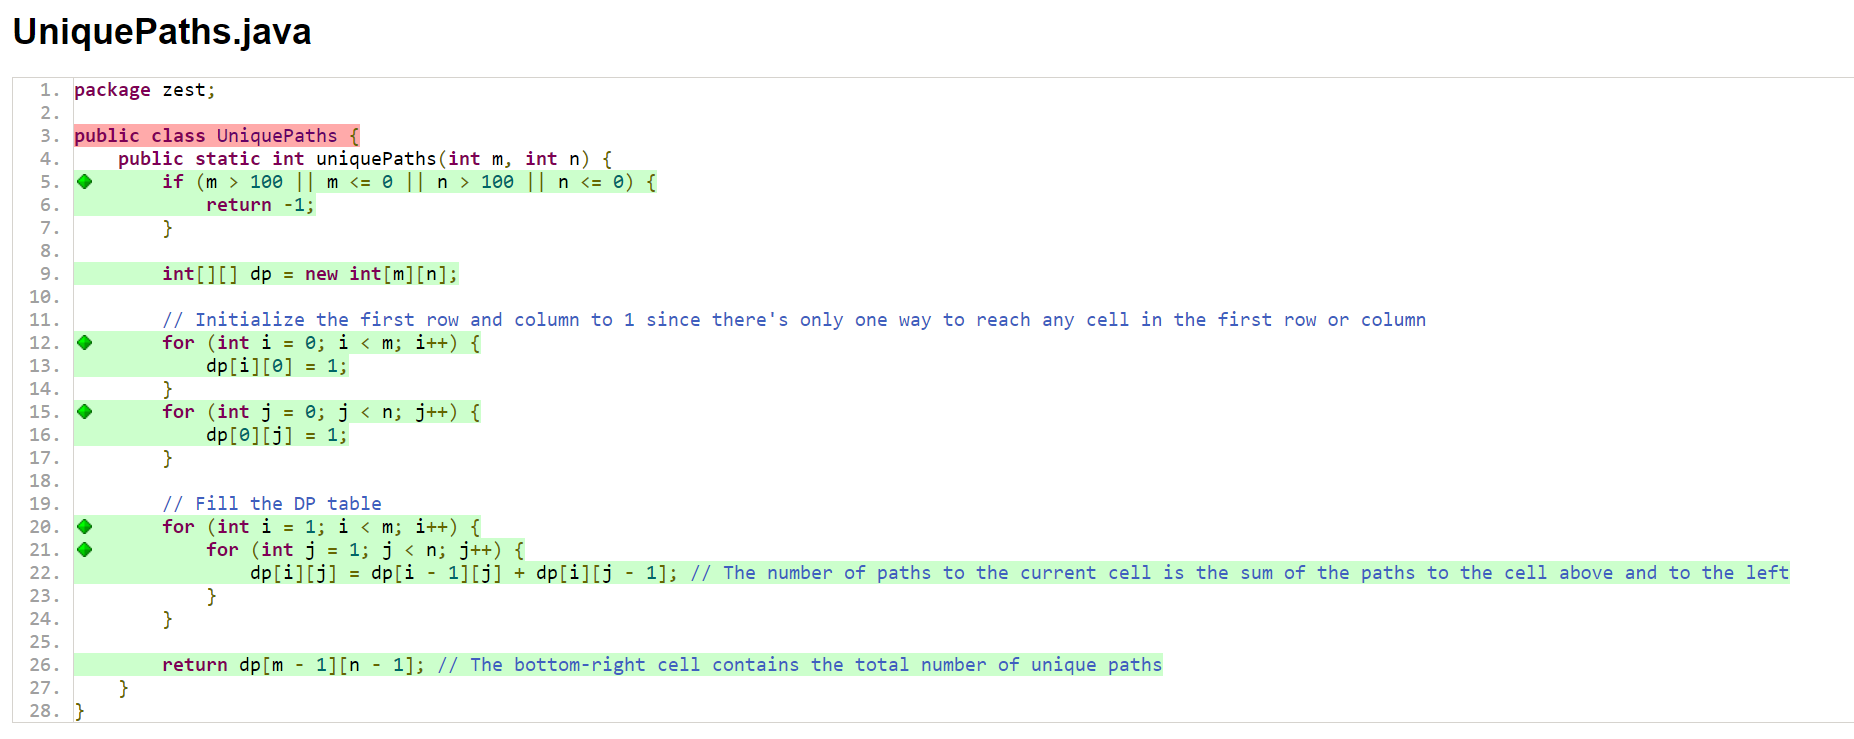
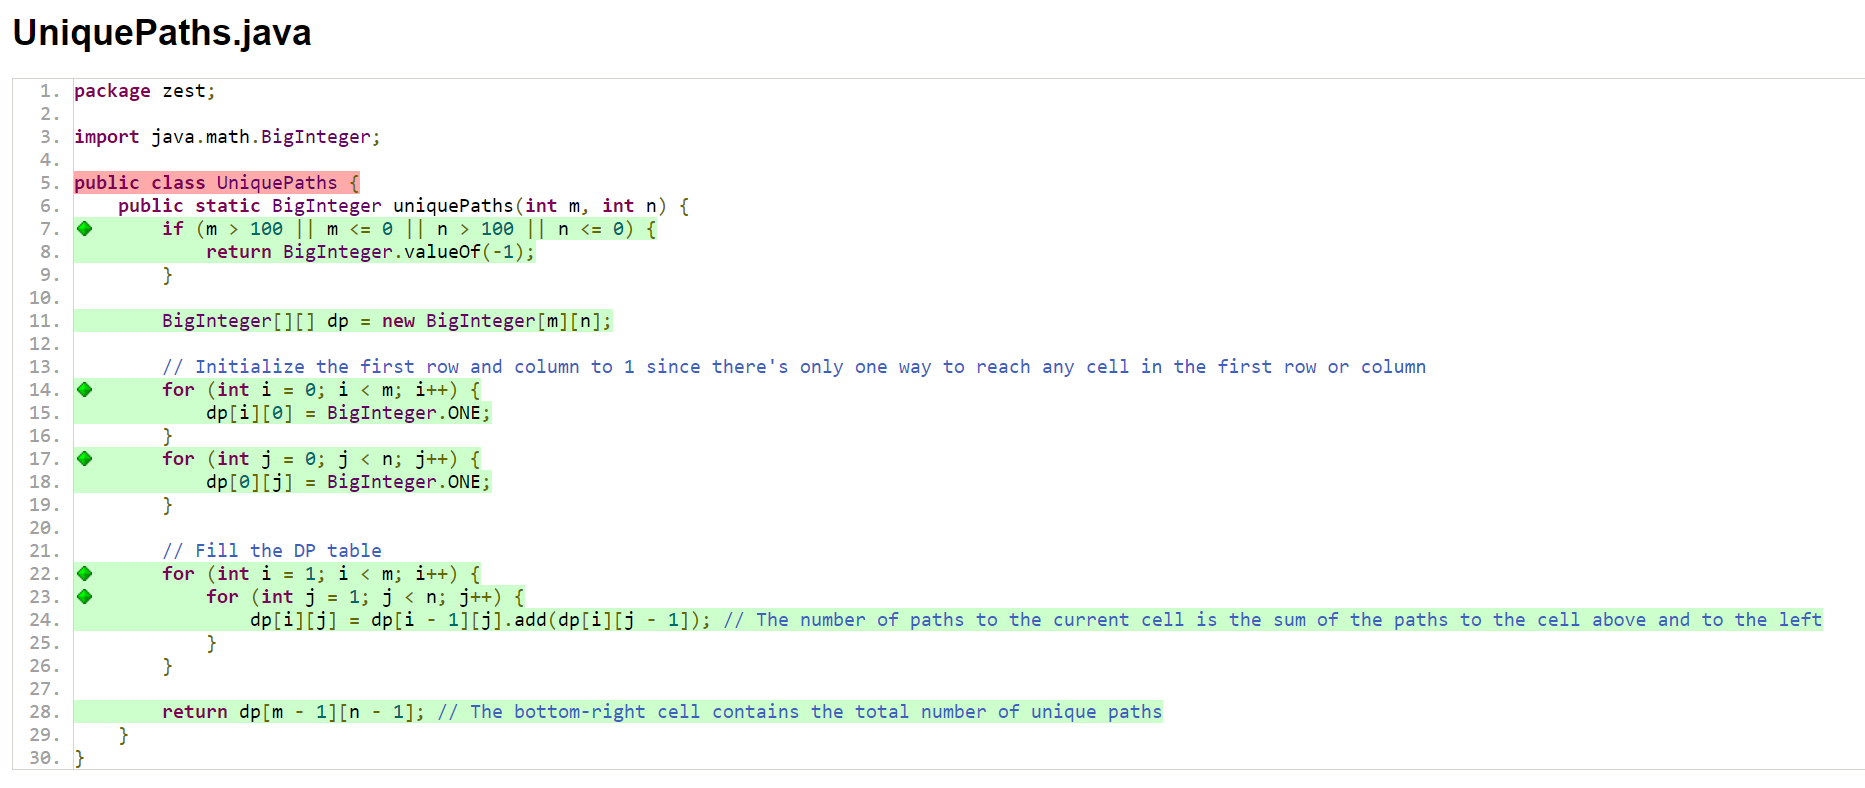
fix failing test, update jacoco-report.png

Changed region(s): [[0.0, 0.0934, 0.9838, 0.9959], [0.0615, 0.8714, 0.6456, 0.9337], [0.0, 0.0311, 0.1845, 0.0622]]

diff --git a/assignment02/unique_paths_grid/src/test/java/zest/UniquePathsTest.java b/assignment02/unique_paths_grid/src/test/java/zest/UniquePathsTest.java
@@ -23,7 +23,9 @@ class UniquePathsTest {
 
     @Test
     void maxInput() {
-        assertEquals(BigIntegerMath.binomial(100, 100), UniquePaths.uniquePaths(100, 100));
+        int m = 100;
+        int n = 100;
+        assertEquals(BigIntegerMath.binomial(m + n - 2, m - 1), UniquePaths.uniquePaths(m, n));
     }
 
     @Test

diff --git a/assignment02/Documentation.md b/assignment02/Documentation.md
@@ -69,7 +69,7 @@ To showcase the implementation process the other test cases are not deleted even
 The goal of the method is to compute the total number of possible paths for a robot to reach the bottom right corner of a grid
 starting at the top lef corner. The robot can only move ```down``` or ```right```. It receives two inputs ```m``` and ```n```
 which represent the number of rows and columns respectively. Both inputs are positive integers in the range ```[1, 100]```.
-Given this specification the normal 32-bit integer range quickly will overflow. Therefore, the implementation is changed to ```BigIntegers```.\
+Given this specification the normal 32-bit integer range quickly will overflow. Therefore, the implementation is changed to using ```BigIntegers```.\
 The requirements fail to clarify the return value for integers not in the specified range. So, for these cases a soft value of -1 is returned.\
 To effectively test this method the following cases are implemented:
 1. Example case
